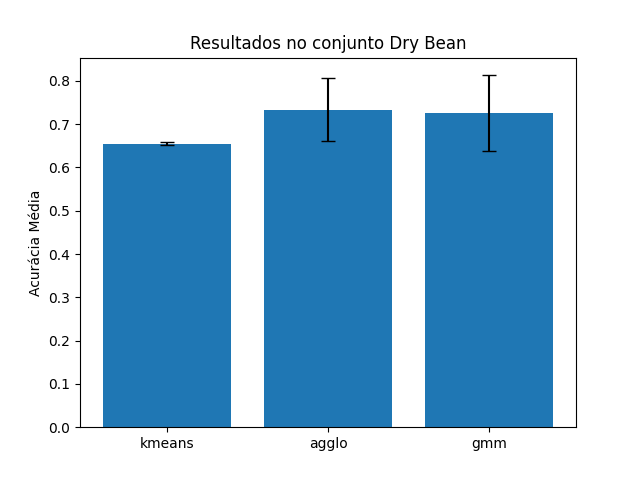
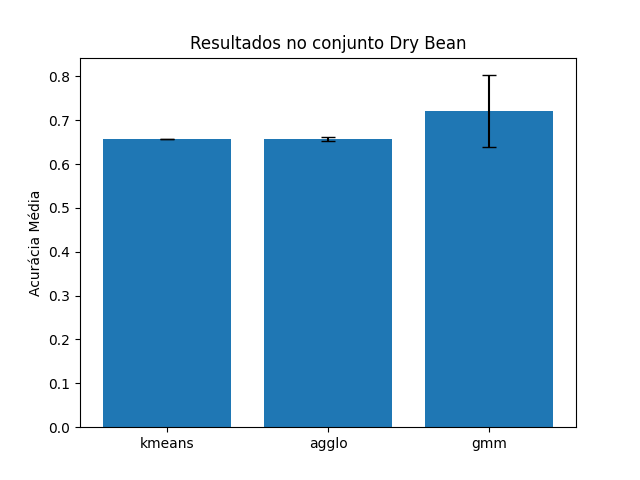
novos metodos

diff --git a/main.py b/main.py
@@ -7,6 +7,7 @@ from scipy.io import loadmat
 from collections import Counter
 from sklearn.preprocessing import StandardScaler
 from collections import Counter
+from sklearn.metrics import silhouette_score
 import matplotlib
 matplotlib.use('Agg')
 import matplotlib.pyplot as plt
@@ -19,11 +20,11 @@ def load_dataset_from_mat(path):
     y = data[:, -1].flatten()
     return X, y
 
-
-def elbow_method(X, max_k=8):
+# Cotovelo utilizado com o k_kmeans
+def elbow_method(X, max_k=8): 
     distortions = []
     for k in range(2, max_k + 1):
-        kmeans = KMeans(n_clusters=k, random_state=0)
+        kmeans = KMeans(n_clusters=k, random_state=0, n_init=10)
         kmeans.fit(X)
         distortions.append(kmeans.inertia_)
     # Encontrar o cotovelo (pode ser ajustado)
@@ -32,19 +33,132 @@ def elbow_method(X, max_k=8):
     n_clusters = diff2.argmin() + 3  # +3 porque diff2 começa no k=4
     return n_clusters
 
+def plot_elbow_mean(X, seeds, max_k, dataset_name, model_type):
+    all_distortions = []
+    ks = list(range(2, max_k + 1))
+    print(f"Calculando o método do cotovelo com sementes {seeds}")
+    for s in seeds:
+        distortions = []
+        for k in ks:
+            kmeans = KMeans(n_clusters=k, random_state=s, n_init=10)
+            kmeans.fit(X)
+            distortions.append(kmeans.inertia_)
+        all_distortions.append(distortions)
+    all_distortions = np.array(all_distortions)
+    mean_distortions = np.mean(all_distortions, axis=0)
+    std_distortions = np.std(all_distortions, axis=0)
+
+    plt.figure()
+    plt.plot(ks, mean_distortions, marker='o', label='Média das distorções')
+    plt.fill_between(ks, mean_distortions-std_distortions, mean_distortions+std_distortions, alpha=0.2, label='Desvio padrão')
+    plt.xlabel('Número de clusters (k)')
+    plt.ylabel('Distortion (Inertia)')
+    plt.title(f'Método do Cotovelo (Média) - {dataset_name} - {model_type}')
+    plt.legend()
+    plt.savefig(f'elbow_mean_{dataset_name}_{model_type}.png')
+    plt.close()
+
+# Silhouette Score para AgglomerativeClustering.
+def get_best_k_silhouette(X, seeds, max_k=8):
+    print(f"Calculando o melhor k para AgglomerativeClustering com sementes {seeds}")
+    ks = list(range(2, max_k + 1))
+    mean_scores = []
+    for k in ks:
+        print(f"Calculando para k={k}")
+        scores = []
+        for s in seeds:
+            print(f"  Semente {s}")
+            model = AgglomerativeClustering(n_clusters=k)
+            labels = model.fit_predict(X)
+            if len(np.unique(labels)) > 1 and len(np.unique(labels)) < len(X):
+                print(f"  Calculando Silhouette Score para k={k} e semente {s}")
+                score = silhouette_score(X, labels)
+            else:
+                print(f"  Silhouette Score não aplicável para k={k} e semente {s}")
+                score = np.nan
+            scores.append(score)
+        mean_scores.append(np.nanmean(scores))
+    best_k = ks[np.nanargmax(mean_scores)]
+    return best_k
+
+def plot_silhouette_mean(X, seeds, max_k, dataset_name, model_type):
+    all_scores = []
+    ks = list(range(2, max_k + 1))
+    for s in seeds:
+        scores = []
+        for k in ks:
+            model = AgglomerativeClustering(n_clusters=k)
+            labels = model.fit_predict(X)
+            # Silhouette só faz sentido se k > 1 e < n amostras
+            if len(np.unique(labels)) > 1 and len(np.unique(labels)) < len(X):
+                score = silhouette_score(X, labels)
+            else:
+                score = np.nan
+            scores.append(score)
+        all_scores.append(scores)
+    all_scores = np.array(all_scores)
+    mean_scores = np.nanmean(all_scores, axis=0)
+    std_scores = np.nanstd(all_scores, axis=0)
+
+    plt.figure()
+    plt.plot(ks, mean_scores, marker='o', label='Média do Silhouette')
+    plt.fill_between(ks, mean_scores-std_scores, mean_scores+std_scores, alpha=0.2, label='Desvio padrão')
+    plt.xlabel('Número de clusters (k)')
+    plt.ylabel('Silhouette Score')
+    plt.title(f'Silhouette (Média) - {dataset_name} - {model_type}')
+    plt.legend()
+    plt.savefig(f'silhouette_mean_{dataset_name}_{model_type}.png')
+    plt.close()
+
+# BIC para GaussianMixture.
+def get_best_k_bic(X, seeds, max_k=8):
+    ks = list(range(2, max_k + 1))
+    mean_bics = []
+    for k in ks:
+        bics = []
+        for s in seeds:
+            model = GaussianMixture(n_components=k, random_state=s)
+            model.fit(X)
+            bics.append(model.bic(X))
+        mean_bics.append(np.mean(bics))
+    best_k = ks[np.argmin(mean_bics)]
+    return best_k
+
+def plot_bic_mean(X, seeds, max_k, dataset_name, model_type):
+    all_bics = []
+    ks = list(range(2, max_k + 1))
+    for s in seeds:
+        bics = []
+        for k in ks:
+            model = GaussianMixture(n_components=k, random_state=s)
+            model.fit(X)
+            bic = model.bic(X)
+            bics.append(bic)
+        all_bics.append(bics)
+    all_bics = np.array(all_bics)
+    mean_bics = np.mean(all_bics, axis=0)
+    std_bics = np.std(all_bics, axis=0)
+
+    plt.figure()
+    plt.plot(ks, mean_bics, marker='o', label='Média do BIC')
+    plt.fill_between(ks, mean_bics-std_bics, mean_bics+std_bics, alpha=0.2, label='Desvio padrão')
+    plt.xlabel('Número de componentes (k)')
+    plt.ylabel('BIC')
+    plt.title(f'BIC (Média) - {dataset_name} - {model_type}')
+    plt.legend()
+    plt.savefig(f'bic_mean_{dataset_name}_{model_type}.png')
+    plt.close()
 
 def cluster_supervised_classifier(X_train, y_train, X_test, clustering_model):
     if isinstance(clustering_model, AgglomerativeClustering):
         clustering_model.fit(X_train)
         cluster_labels = clustering_model.labels_
-        # Calcule os centróides dos clusters
         centroids = np.array(
             [
                 X_train[cluster_labels == i].mean(axis=0)
                 for i in np.unique(cluster_labels)
             ]
         )
-        # Para cada amostra de teste, encontre o cluster mais próximo
         from scipy.spatial.distance import cdist
 
         pred_clusters = np.argmin(cdist(X_test, centroids), axis=1)
@@ -68,33 +182,39 @@ def cluster_supervised_classifier(X_train, y_train, X_test, clustering_model):
 def run_experiment(X, y, model_type="kmeans", return_accs=False):
     accs = []
     cms = []
-    for s in range(1, 31):
+    seeds = list(range(1, 3))
+    max_k = 8
+    for s in seeds:
         X_train, X_test, y_train, y_test = train_test_split(
             X, y, test_size=0.3, random_state=s, stratify=y
         )
-        # Normalização dos dados
         scaler = StandardScaler()
         X_train = scaler.fit_transform(X_train)
         X_test = scaler.transform(X_test)
 
-        # Print da distribuição das classes
-        print(f"Repetição {s} - Distribuição das classes no treino:", Counter(y_train))
-
-        n_clusters = elbow_method(X_train)
         if model_type == "kmeans":
-            model = KMeans(n_clusters=n_clusters, random_state=s)
+            n_clusters = elbow_method(X_train, max_k=max_k)
+            model = KMeans(n_clusters=n_clusters, random_state=s, n_init=10)
         elif model_type == "agglo":
+            print(f"Calculando o melhor k para AgglomerativeClustering com semente {s}")
+            n_clusters = get_best_k_silhouette(X_train, seeds, max_k=max_k)
             model = AgglomerativeClustering(n_clusters=n_clusters)
         elif model_type == "gmm":
+            n_clusters = get_best_k_bic(X_train, seeds, max_k=max_k)
             model = GaussianMixture(n_components=n_clusters, random_state=s)
         else:
             raise ValueError("Modelo não suportado")
+
         y_pred = cluster_supervised_classifier(X_train, y_train, X_test, model)
         accs.append(accuracy_score(y_test, y_pred))
         cms.append(confusion_matrix(y_test, y_pred))
+        mean_cm = np.mean(cms, axis=0)
+        mean_cm = np.round(mean_cm).astype(int)  # Arredonda para inteiro
+        mean_acc = np.mean(accs)
+        std_acc = np.std(accs)
     print(f"Modelo: {model_type}")
-    print(f"Acurácia média: {np.mean(accs):.4f} | Desvio padrão: {np.std(accs):.4f}")
-    print(f"Matriz de confusão (última repetição):\n{cms[-1]}\n")
+    print(f"Acurácia média: {mean_acc:.4f} | Desvio padrão: {std_acc:.4f}")
+    print(f"Matriz de confusão média:\n{mean_cm}\n")
     if return_accs:
         return accs
 
@@ -107,10 +227,18 @@ if __name__ == "__main__":
         print(f"==== Dataset: {dataset_name} ====")
         X, y = load_dataset_from_mat(dataset_path)
         resultados[dataset_name] = {}
+        seeds = list(range(1, 3))
         for model_type in ["kmeans", "agglo", "gmm"]:
             accs = run_experiment(X, y, model_type=model_type, return_accs=True)
+            print(f"Resultados para {model_type} no dataset {dataset_name}: {accs}")
             resultados[dataset_name][model_type] = accs
-
+            if model_type == "kmeans":
+                print(f"Calculando o melhor k para KMeans no dataset {dataset_name}")
+                plot_elbow_mean(X, seeds, max_k=8, dataset_name=dataset_name, model_type=model_type)
+            elif model_type == "agglo":
+                plot_silhouette_mean(X, seeds, max_k=8, dataset_name=dataset_name, model_type=model_type)
+            elif model_type == "gmm":
+                plot_bic_mean(X, seeds, max_k=8, dataset_name=dataset_name, model_type=model_type)
     # Gerar gráficos
     for dataset_name in resultados:
         medias = []
